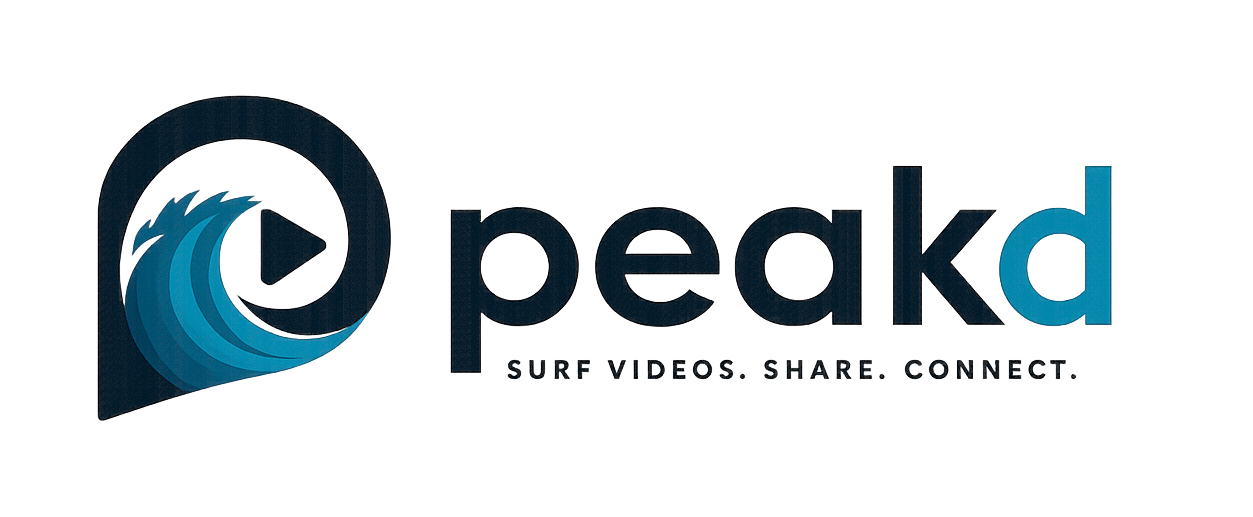
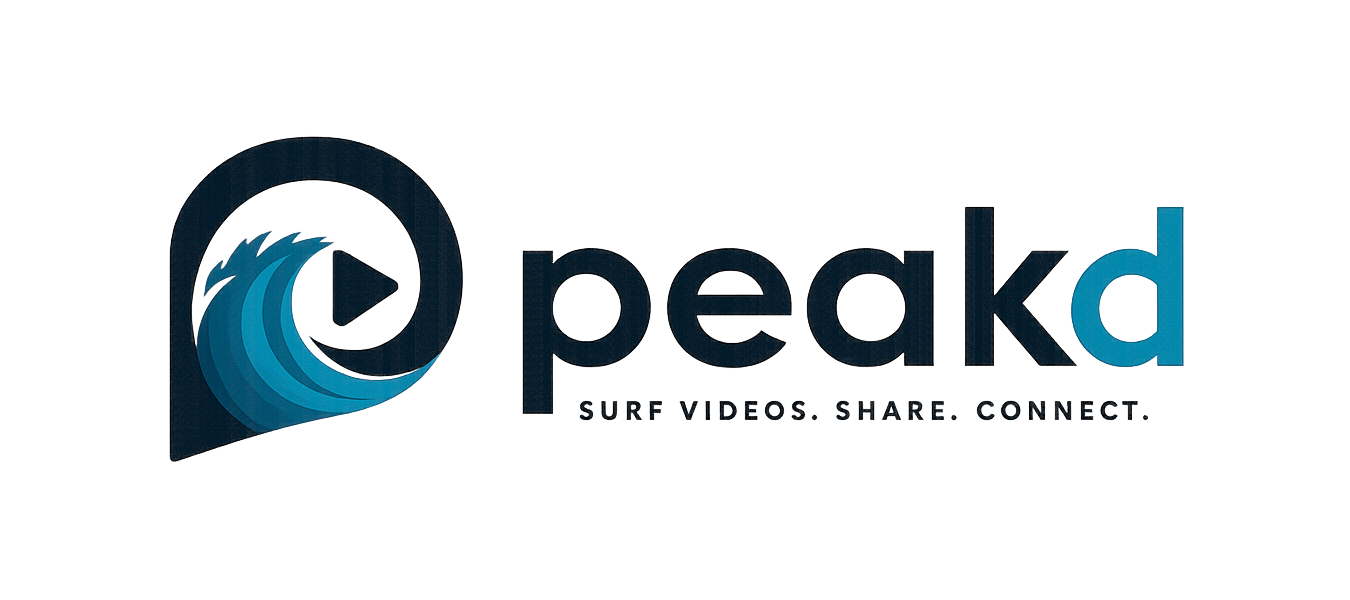
chore: commit changes in worktree-1

Changed region(s): [[0.0623, 0.1857, 0.9026, 0.8046], [0.7159, 0.3095, 0.747, 0.3714]]

diff --git a/src/s3/s3.service.ts b/src/s3/s3.service.ts
@@ -1,6 +1,8 @@
 import { Injectable } from '@nestjs/common';
 import { ConfigService } from '@nestjs/config';
 import {
+  DeleteObjectCommand,
+  DeleteObjectsCommand,
   GetObjectCommand,
   ListObjectsV2Command,
   PutObjectCommand,
@@ -113,12 +115,24 @@ export class S3Service {
 
   /** Lists object keys under prefix (paginated). */
   async listKeysWithPrefix(prefix: string): Promise<string[]> {
+    return this.listKeysWithPrefixInBucket(this.bucket, prefix);
+  }
+
+  /** Lists object keys under prefix in the raw retention bucket. */
+  async listKeysWithPrefixRaw(prefix: string): Promise<string[]> {
+    return this.listKeysWithPrefixInBucket(this.rawBucket, prefix);
+  }
+
+  private async listKeysWithPrefixInBucket(
+    bucket: string,
+    prefix: string,
+  ): Promise<string[]> {
     const keys: string[] = [];
     let continuationToken: string | undefined;
     do {
       const page = await this.client.send(
         new ListObjectsV2Command({
-          Bucket: this.bucket,
+          Bucket: bucket,
           Prefix: prefix,
           ContinuationToken: continuationToken,
         }),
@@ -133,6 +147,46 @@ export class S3Service {
         : undefined;
     } while (continuationToken);
     return keys;
+  }
+
+  async deleteObject(key: string, bucket = this.bucket): Promise<void> {
+    await this.client.send(
+      new DeleteObjectCommand({
+        Bucket: bucket,
+        Key: key,
+      }),
+    );
+  }
+
+  async deleteObjects(keys: string[], bucket = this.bucket): Promise<void> {
+    if (keys.length === 0) {
+      return;
+    }
+    const chunkSize = 1000;
+    for (let i = 0; i < keys.length; i += chunkSize) {
+      const chunk = keys.slice(i, i + chunkSize);
+      await this.client.send(
+        new DeleteObjectsCommand({
+          Bucket: bucket,
+          Delete: {
+            Objects: chunk.map((Key) => ({ Key })),
+            Quiet: true,
+          },
+        }),
+      );
+    }
+  }
+
+  /** Deletes all objects under `prefix` in the processed bucket. */
+  async deletePrefix(prefix: string): Promise<void> {
+    const keys = await this.listKeysWithPrefix(prefix);
+    await this.deleteObjects(keys, this.bucket);
+  }
+
+  /** Deletes all objects under `prefix` in the raw retention bucket. */
+  async deletePrefixRaw(prefix: string): Promise<void> {
+    const keys = await this.listKeysWithPrefixRaw(prefix);
+    await this.deleteObjects(keys, this.rawBucket);
   }
 
   async downloadToFile(key: string, destPath: string): Promise<void> {

diff --git a/src/video/video-registry.service.ts b/src/video/video-registry.service.ts
@@ -1,8 +1,16 @@
-import { Injectable, NotFoundException, BadRequestException } from '@nestjs/common';
+import {
+  Injectable,
+  NotFoundException,
+  BadRequestException,
+} from '@nestjs/common';
 import { InjectModel } from '@nestjs/mongoose';
 import { Model } from 'mongoose';
 import { validate as uuidValidate, version as uuidVersion } from 'uuid';
 import { S3Service } from '../s3/s3.service';
+import { StudioService } from '../studio/studio.service';
+import {
+  WaveUnlockPurchase,
+} from '../commercial/schemas/wave-unlock-purchase.schema';
 import { VideoJob } from './schemas/video-job.schema';
 import type { VideoJobStatus } from './schemas/video-job.schema';
 
@@ -51,8 +59,11 @@ function normalizeJobStatus(doc: {
 export class VideoRegistryService {
   constructor(
     private readonly s3: S3Service,
+    private readonly studio: StudioService,
     @InjectModel(VideoJob.name)
     private readonly videoJobModel: Model<VideoJob>,
+    @InjectModel(WaveUnlockPurchase.name)
+    private readonly waveUnlockPurchaseModel: Model<WaveUnlockPurchase>,
   ) {}
 
   async listJobs(
@@ -171,5 +182,45 @@ export class VideoRegistryService {
       snapshots,
       surfSessionId: doc.surfSessionId ?? null,
     };
+  }
+
+  async deleteJob(userId: string, jobId: string): Promise<{ jobId: string }> {
+    const doc = await this.videoJobModel
+      .findOne({ jobId, userId })
+      .lean()
+      .exec();
+    if (!doc) {
+      throw new NotFoundException(`Video job not found: ${jobId}`);
+    }
+
+    const sessionId =
+      typeof doc.surfSessionId === 'string' && doc.surfSessionId.trim()
+        ? doc.surfSessionId.trim()
+        : null;
+    if (sessionId) {
+      await this.studio.assertSessionOpenForUpload(userId, sessionId);
+    }
+
+    if (doc.discoverPublishedAt) {
+      throw new BadRequestException(
+        'Cannot remove a wave that is on the discover feed',
+      );
+    }
+    if (doc.claimedByUserId || doc.videoUnlockedForUserId) {
+      throw new BadRequestException(
+        'Cannot remove a wave that has been claimed or unlocked',
+      );
+    }
+
+    const prefix = `videos/${userId}/${jobId}/`;
+    await Promise.all([
+      this.s3.deletePrefix(prefix),
+      this.s3.deletePrefixRaw(prefix),
+    ]);
+
+    await this.waveUnlockPurchaseModel.deleteMany({ jobId }).exec();
+    await this.videoJobModel.deleteOne({ jobId, userId }).exec();
+
+    return { jobId };
   }
 }

diff --git a/src/video/video.controller.ts b/src/video/video.controller.ts
@@ -1,5 +1,6 @@
 import {
   Controller,
+  Delete,
   Get,
   HttpCode,
   HttpStatus,
@@ -41,6 +42,15 @@ export class VideoController {
     @Param('jobId', new ParseUUIDPipe({ version: '4' })) jobId: string,
   ) {
     return this.videoRegistry.getJob(userId, jobId);
+  }
+
+  @Delete(':jobId')
+  @HttpCode(HttpStatus.OK)
+  deleteJob(
+    @AuthUserId() userId: string,
+    @Param('jobId', new ParseUUIDPipe({ version: '4' })) jobId: string,
+  ) {
+    return this.videoRegistry.deleteJob(userId, jobId);
   }
 
   @Post('process')

diff --git a/src/video/video.module.ts b/src/video/video.module.ts
@@ -8,12 +8,19 @@ import { S3Module } from '../s3/s3.module';
 import { VideoJob, VideoJobSchema } from './schemas/video-job.schema';
 import { Auth0JwtGuard } from '../auth/auth0-jwt.guard';
 import { StudioModule } from '../studio/studio.module';
+import {
+  WaveUnlockPurchase,
+  WaveUnlockPurchaseSchema,
+} from '../commercial/schemas/wave-unlock-purchase.schema';
 
 @Module({
   imports: [
     S3Module,
     StudioModule,
-    MongooseModule.forFeature([{ name: VideoJob.name, schema: VideoJobSchema }]),
+    MongooseModule.forFeature([
+      { name: VideoJob.name, schema: VideoJobSchema },
+      { name: WaveUnlockPurchase.name, schema: WaveUnlockPurchaseSchema },
+    ]),
   ],
   controllers: [VideoController],
   providers: [